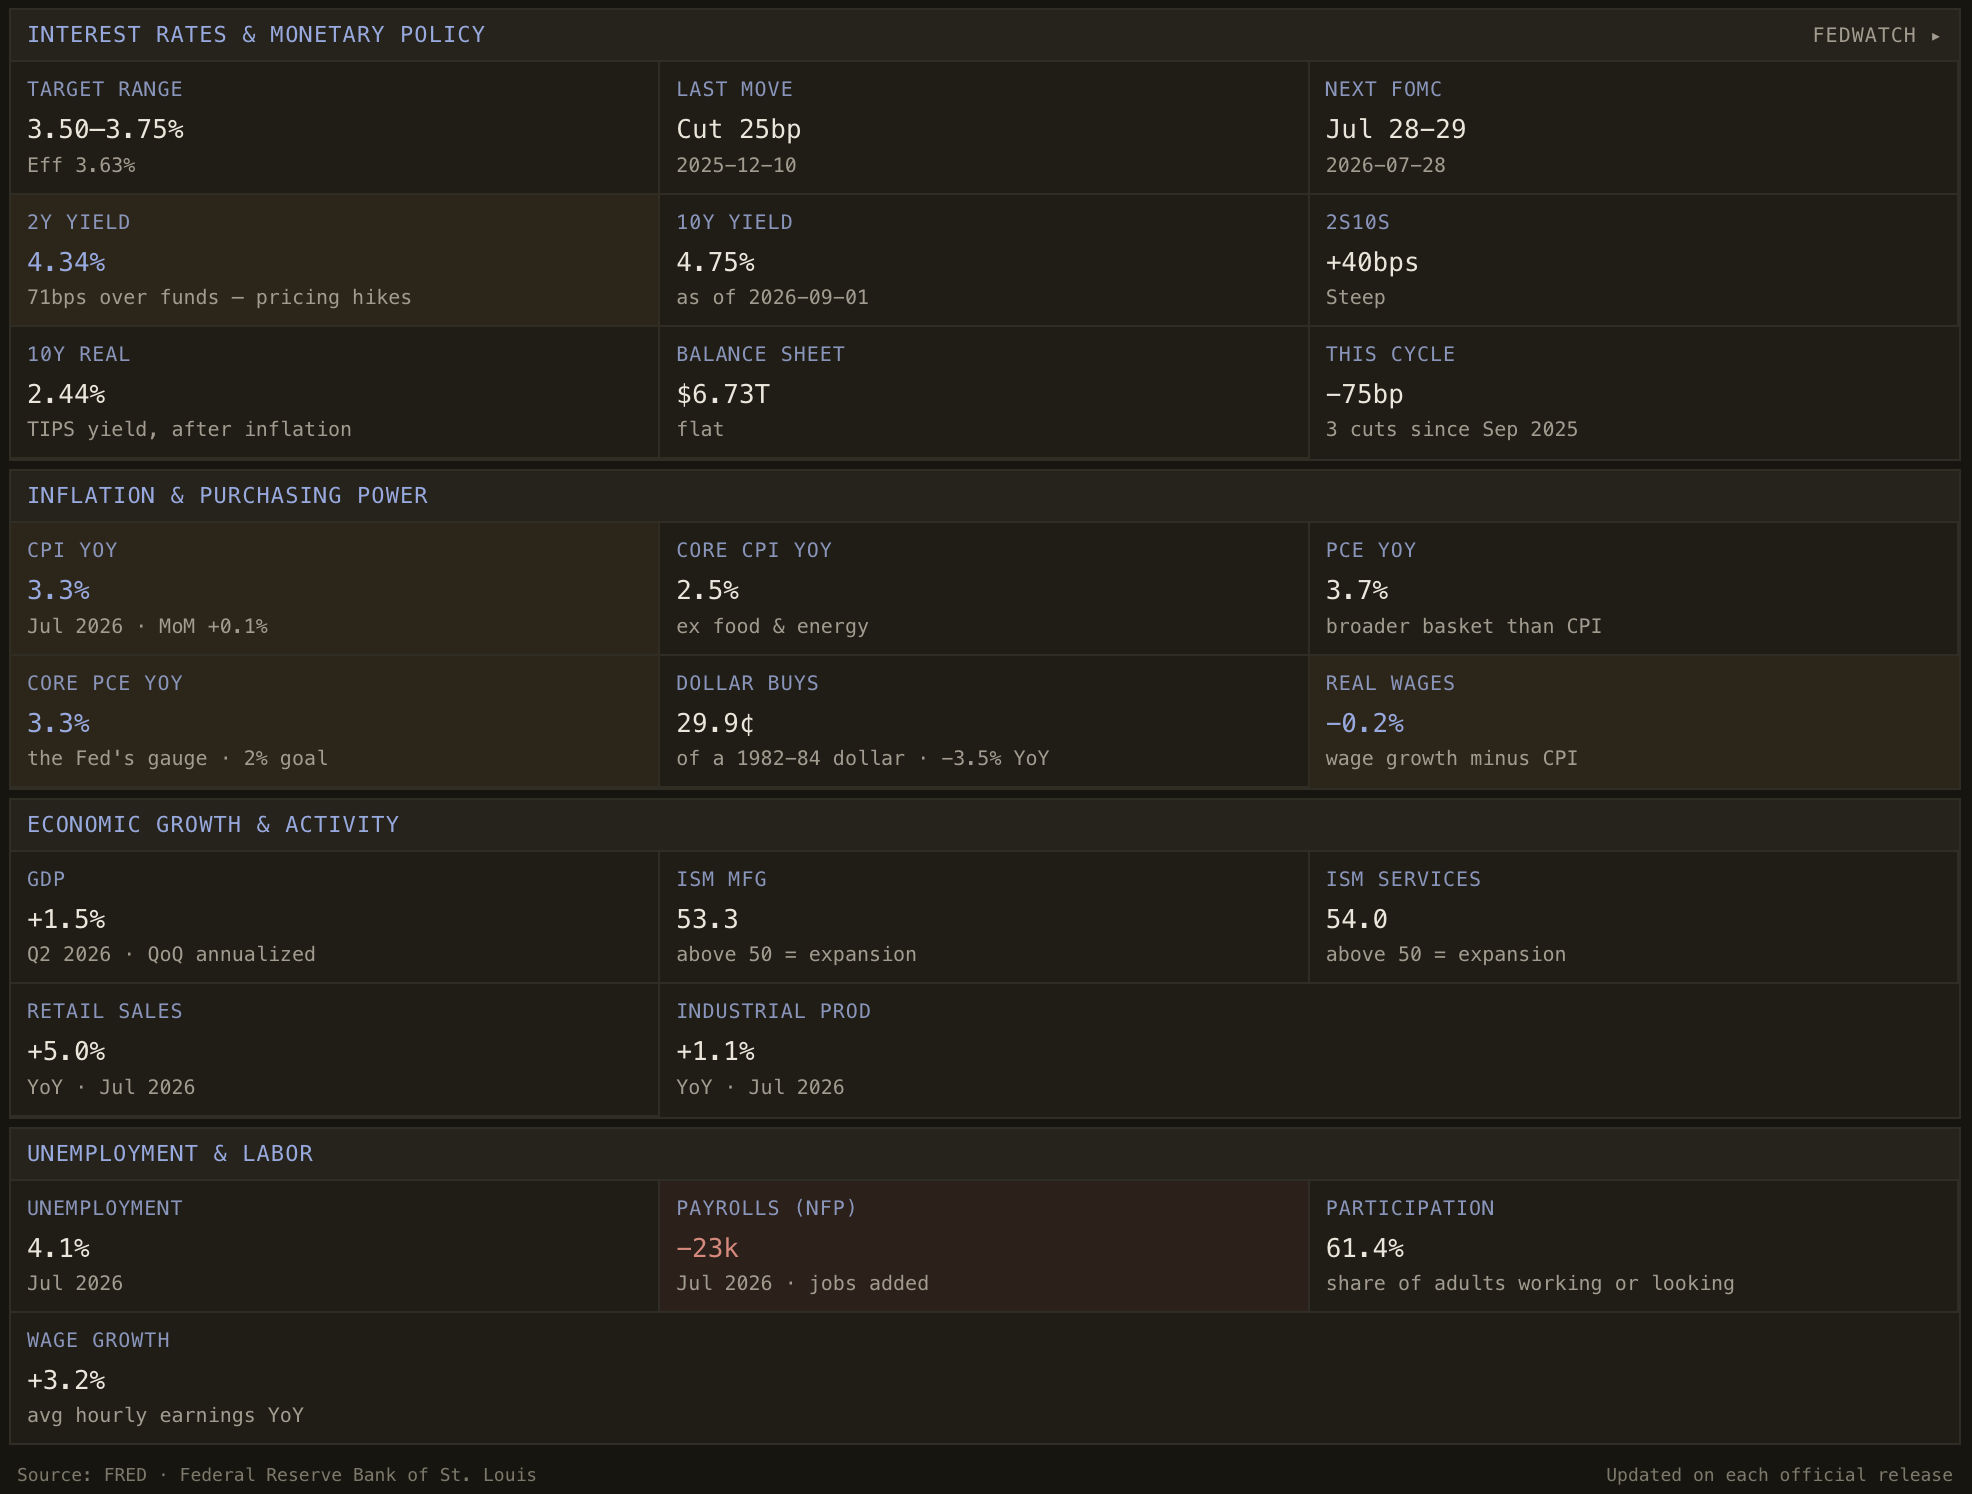
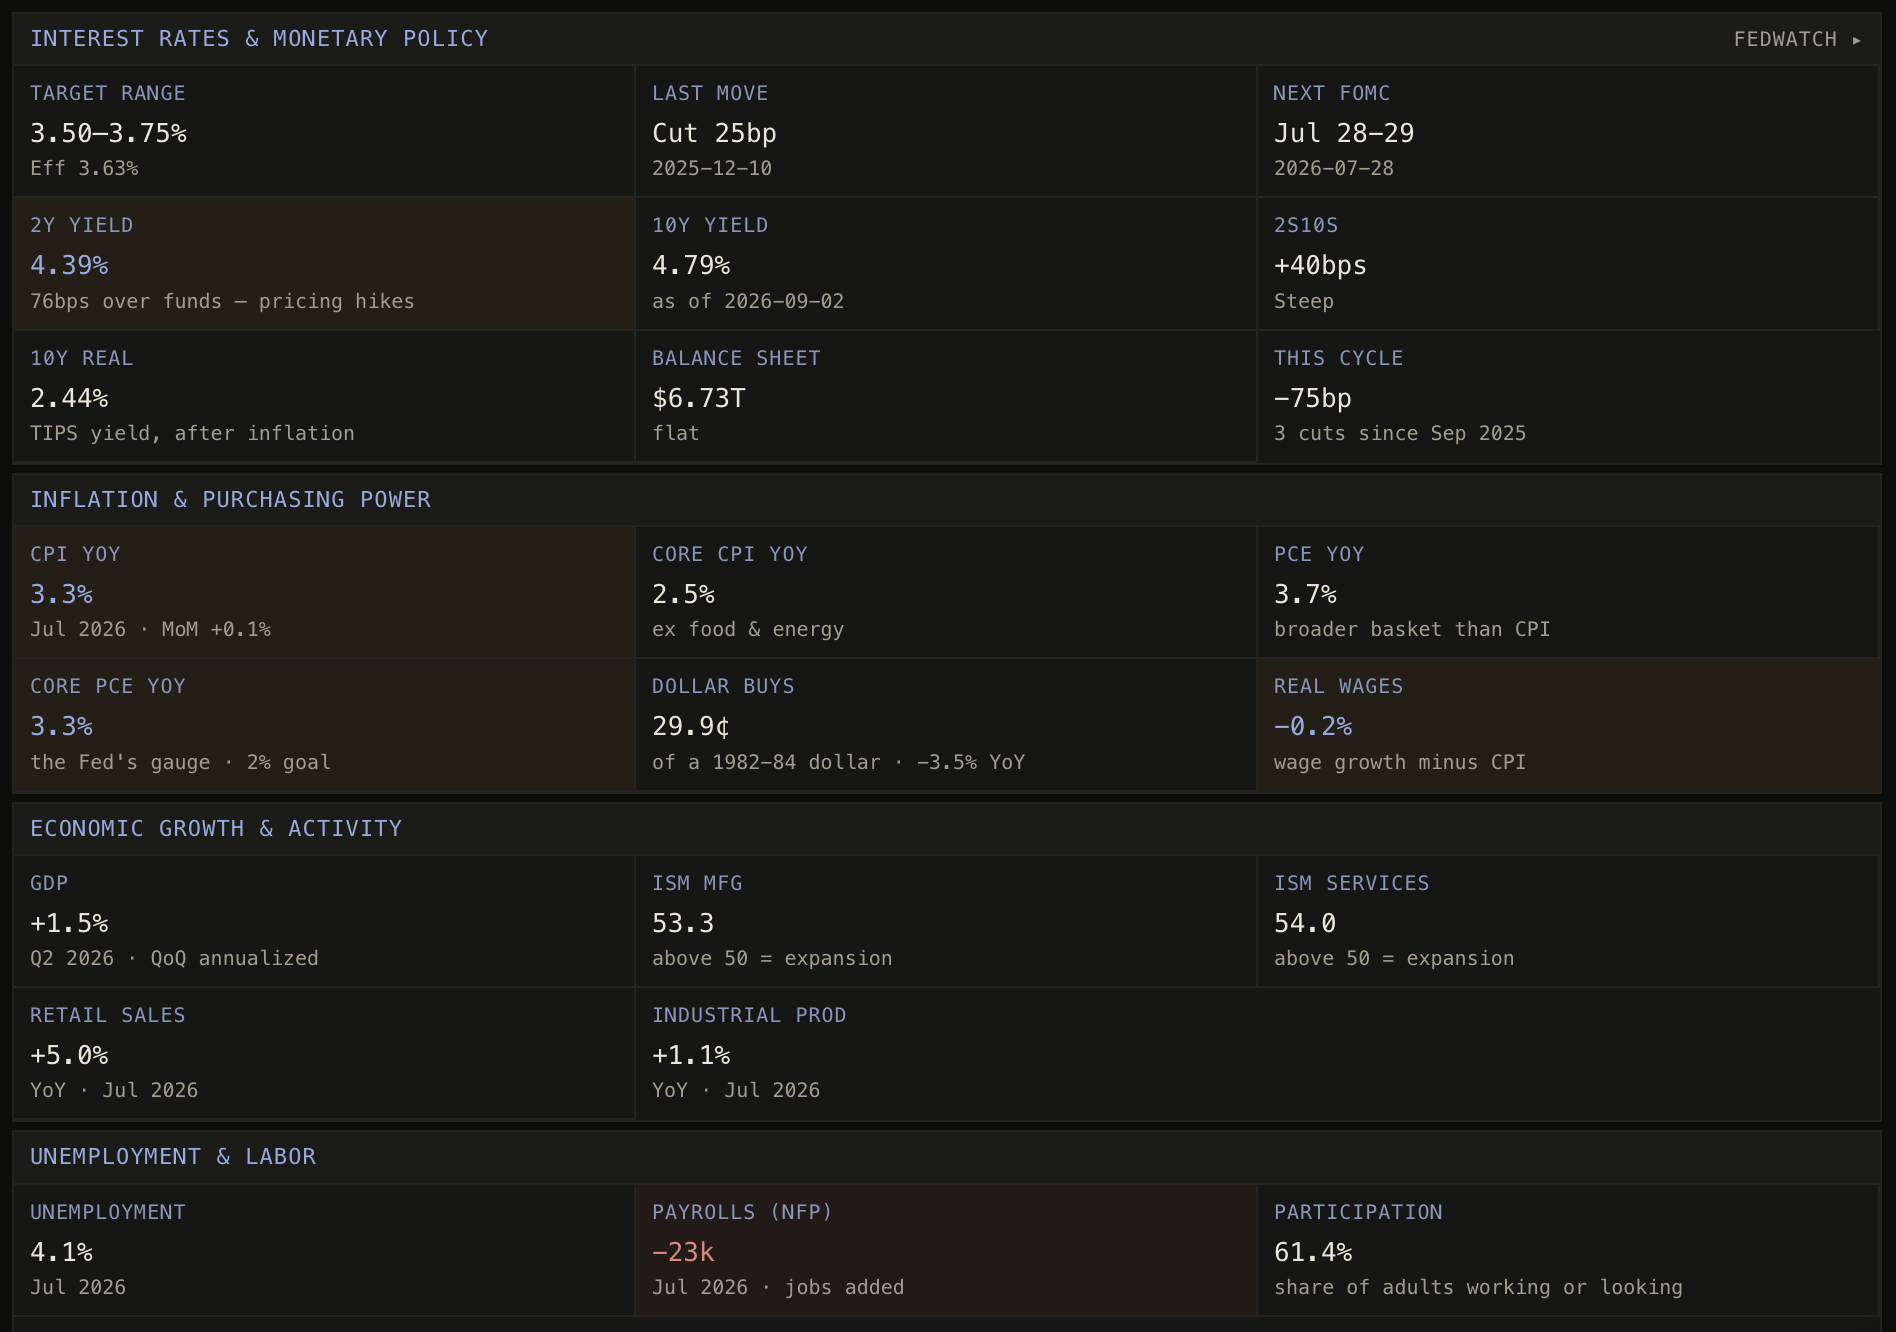
Add macro grid visualization to Buy Side Briefings case study

diff --git a/src/data/case-studies.ts b/src/data/case-studies.ts
@@ -436,7 +436,7 @@ export const caseStudies: Record<string, CaseStudy> = {
       {
         
         type: "text",
-        text: "Constantly switching apps while learning a language is too time consuming. I created an app that translates the Korean text on screen to English in real time.",
+        text: "Constantly switching apps while learning a language is annoying and time consuming. I created an app that translates the Korean text on screen to English in real time.",
       },
       // had to use the dynamic island iOS does not allow you to render anything over an existing app
       // had 2 choices, use the dynamic island or a floating window
@@ -507,7 +507,7 @@ export const caseStudies: Record<string, CaseStudy> = {
 
       {
         type: "text",
-        text: "Buy Side is a website that uses AI to curate market information into concise daily reports. By tracking real time price movements, company earnings, and macroeconomic data, it reduces time spent on information gathering and generates an ~8 minute read."
+        text: "Buy Side is an automated market reporting website that tracks price movements, macro events, and generates daily briefings. I built it for myself to save time and reduce decision fatigue."
       },
 
       {
@@ -520,25 +520,29 @@ export const caseStudies: Record<string, CaseStudy> = {
 
       {
         type: "text",
-        text: "Tracking why assets moved requires aggregating information from multiple sources: stock exchanges, financial news outlets, SEC filings, and social media."
+        text: "Stock prices change constantly and it takes time and judgement to find the right information. Tracking the market requires aggregating information from multiple sources: stock exchanges, financial news outlets, SEC filings, and social media. "
+
+        // i should have AI look through twitter and reddit more
       },
       {
         type: "text",
-        text: "This workflow causes context switching and can bring cognitive fatigue. Sometimes it's difficult to tell relevant information from noise, which results in missed opportunities."
+        text: "This is a fragmented workflow due to context switching and information overload. Sometimes it's difficult to separate whats relevant from the noise, leading to missed opportunities."
+      },
+       {
+        type: "text",
+        text: "I decided to use AI for market research and to curate the information it finds so I can quickly understand whats going on in the market."
       },
 
             { type: "heading", text: "Curating Market Context with AI" },
+      // turning hours of research into minutes
+      // how did i format the AI output
+      // citations and trust - the report always lists its citations so i can check if somethign seems off
 
-            {
-        type: "text",
-        text: "Stock prices change constantly but it takes time and judgement to find the right information. Different sources provide different insights."
-      },
       // context switching - constantly jumping between multiple disconnected browser tabs and apps to gather information, which can be mentally exhausting and lead to cognitive fatigue
       {
         type: "text",
-        text: "Buy Side reduces cognitive fatigue by using AI to remove the manual work of navigating sources and collecting information. Claude curates the information and outputs a dense but concise report."
+        text: "I gave Claude clear rules on how to research and structure each report. Instead of running one query, it runs parallel web searches across market feeds and stock watchlists to collect data.",
         
-        // following a set of instructions on what to look for."
         // market data, a stock list, sentiment, news. runs these as parallel web searches. contuinity - the agent reads the most recent prior report so today's read connects to yesterday's, and the night run reads that morning's report so it can say in one sentence whether the morning read held up. 
         // before writing anything it must decide the single thing a reader who saw nothing today needs to know... that gets the headline and the main read.
         // evidence is important. the read must be supported by data and numbers, no unsourced claims
@@ -546,10 +550,26 @@ export const caseStudies: Record<string, CaseStudy> = {
         // a hard word budget - roughly 900 - 1200 words for the morning, 1200 to 1600 at night
         // no buy, sell, or hold recommendations. the read is purely informational and analytical, not advisory
         // calibration - it checks the last few days of output and if the only news is a trend that continued, it says so rather than escalating the language. 
-        // 
+
+        // revised instructions 24 times
+        // the system prompt is in charge of ux bc every change i make changes future reports
+        
+        // LLM doesnt remember the last report so it reads previous reports on github 
       },
 
-                  { type: "heading", text: "Designing a Pre-Market vs. Market Close Workflow" },
+      {
+        type: "text",
+        text: "The core design work is in the instructions file in the repository. It took 24 revisions to get the reports to its current state and I am still improving it whenever I notice a problem. The file behaves as a living design system because every adjustment I make changes future reports."
+      },
+
+      {
+        type: "text",
+        text: "Because LLM's don't have long term memory, the agent calibrates itself by reading reports of the last few days before writing. This creates continuity and prevents the AI from overreacting if a trend only continued."
+      },
+
+      { type: "heading", text: "Designing a Pre-Market vs. After-Hours Workflow" },
+
+
       {
         type: "text",
         text: "An investor's mental state changes fundamentally depending on the time of day."
@@ -564,7 +584,7 @@ export const caseStudies: Record<string, CaseStudy> = {
 
       {
         type: "text",
-        text: "I added an AM/PM toggle to visually accommodate different mental states. Users can switch between 2 reports and the layout is restructured with the right information."
+        text: "I added an AM/PM toggle to visually accommodate different mental states. Switching to another report restructures the page with the right information."
       },
 
             { type: "heading", text: "Data Visualization" },
@@ -610,10 +630,16 @@ export const caseStudies: Record<string, CaseStudy> = {
         alt: "The earnings timeline: nineteen tickers from MU down to WMT, each with a dot placed along a line running from today past sixty days out and a count of days until it reports, filled dots for confirmed dates and hollow ones for estimates",
       },
 
-
-      // each tile carries a rule, and the tint changes color when the number crosses a threshold worth noticing. the color is 6% opacity
-      // there are 2 levels, warning and alert. faint amber is warn meaning worth attention and faint red is worth more attention
-      // live data from FRED API and other sources, thresholds set previously by Claude's recommendation from when i was trying to learn about these topics and what numbers are worth paying attention to.
+       {
+        type: "text",
+        text: "And a grid for macro indicators with tiles that highlight when a metric crosses a certain level."
+      },
+      {
+        type: "image",
+        src: "/projects/buy-side-macro-grid.png",
+        width: 620,
+        alt: "The macro indicators grid: tiles grouped into Interest Rates & Monetary Policy, Inflation & Purchasing Power, Economic Growth & Activity, and Unemployment & Labor, with warning and alert threshold color highlights on key metrics",
+      },
 
 
      // current design
